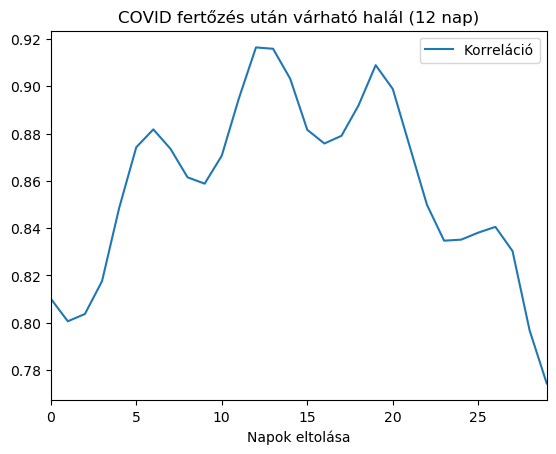
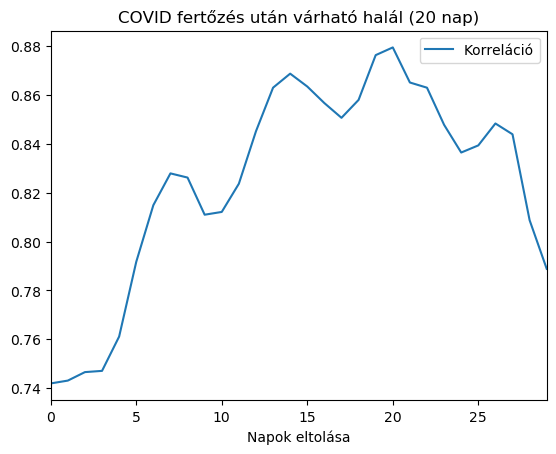
Korreláció cseréje 20 napra

diff --git a/kép_halálozási_ráta.py b/kép_halálozási_ráta.py
@@ -10,8 +10,8 @@ import matplotlib.pyplot as plt
 
 BASEDIR=os.path.dirname(__file__)
 
-# fertőzés utáni várható halál 12 nap
-VARHATO_HALAL=12
+# fertőzés utáni várható halál 20 nap
+VARHATO_HALAL=20
 
 df = pd.read_csv(BASEDIR +"/adatok/covidadatok.csv", parse_dates=['Dátum'])
 
@@ -33,7 +33,7 @@ par = host.twinx()
 
 host.set_xlabel("Dátum")
 host.set_ylabel("Halálozási ráta")
-host.set_title("COVID fertőzöttek halálozási rátája (halálozás 12 nappal eltolva)")
+host.set_title("COVID fertőzöttek halálozási rátája (halálozás " + str(VARHATO_HALAL) + " nappal eltolva)")
 par.set_ylabel("Heti új fertőzött átlaga")
 par.set_ylim([0, 80000])
 

diff --git a/kép_fertőzés_után_várható_halál.py b/kép_fertőzés_után_várható_halál.py
@@ -9,6 +9,8 @@ import os
 BASEDIR=os.path.dirname(__file__)
 
 df = pd.read_csv(BASEDIR +"/adatok/covidadatok.csv", parse_dates=['Dátum'])
+df = df[df['Dátum'] >= "2020-08-01"]
+df = df[df['Dátum'] < "2021-02-01"]
 
 korrelacio = []
 

diff --git a/README.md b/README.md
@@ -97,11 +97,11 @@ Az ábrán a hivatalos COVID halálozási adatokat vetjük össze a KSH adatokka
 
 #### Korreláció a fertőzöttek és halottak között
 
-A fertőzöttek és halottak közti korreláció a legmagasabb értéket 12 napnál mutatja.
+Az első hullám alatt a fertőzöttek és halottak közti korreláció legmagasabb értéke 20 napnál volt.
 
 ![Új fertőzöttek és halottak korreláció](https://github.com/kamutelapo/covid/blob/master/k%C3%A9pek/Fert%C5%91z%C3%A9sUt%C3%A1nV%C3%A1rhat%C3%B3Hal%C3%A1l.png?raw=true)
 
-#### Halálozási ráta az új fertőzöttek és elhunytak alapján (12 nap eltolással)
+#### Halálozási ráta az új fertőzöttek és elhunytak alapján (20 nap eltolással)
 
 ![Új fertőzöttek és halottak korreláció](https://github.com/kamutelapo/covid/blob/master/k%C3%A9pek/Fert%C5%91z%C3%B6ttekHal%C3%A1loz%C3%A1siR%C3%A1t%C3%A1ja.png?raw=true)
 
